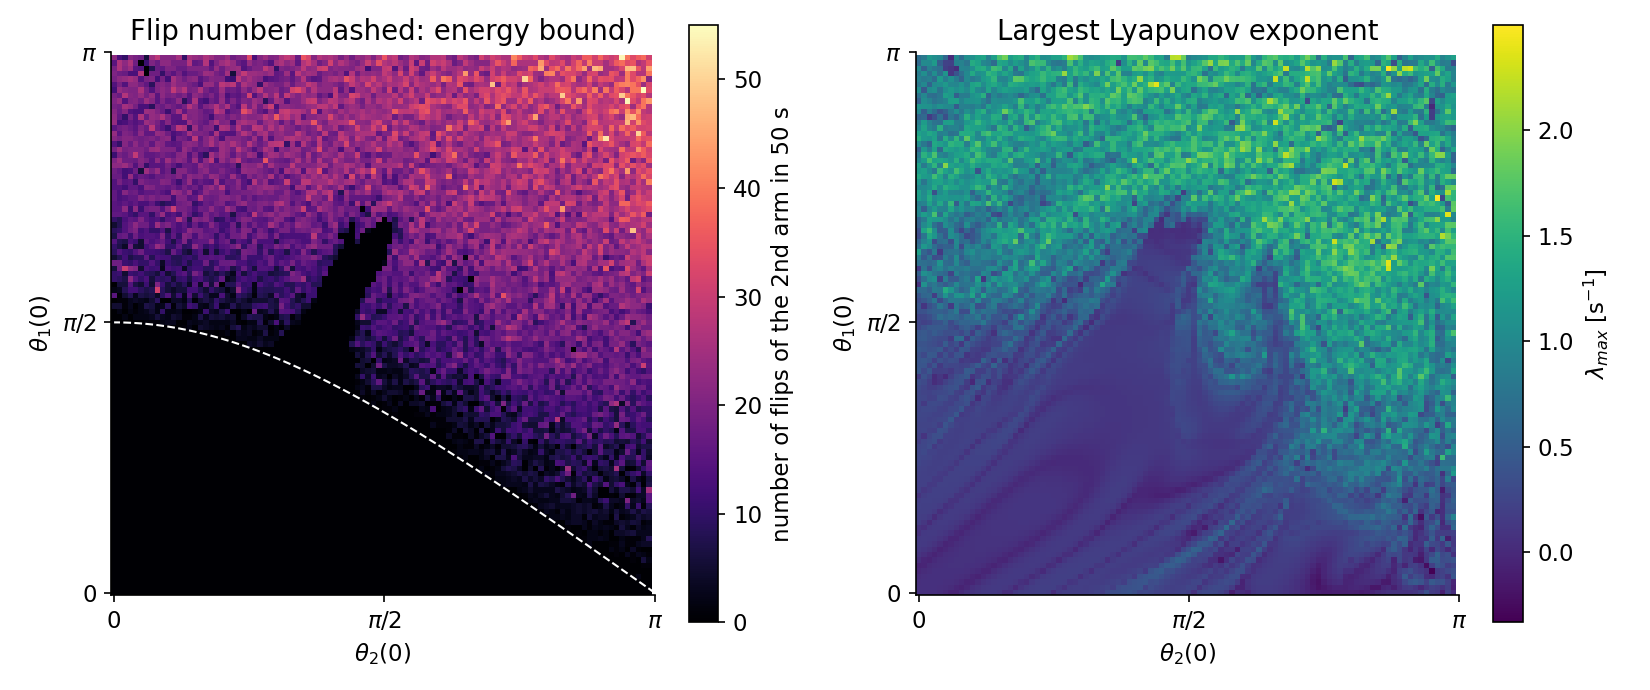
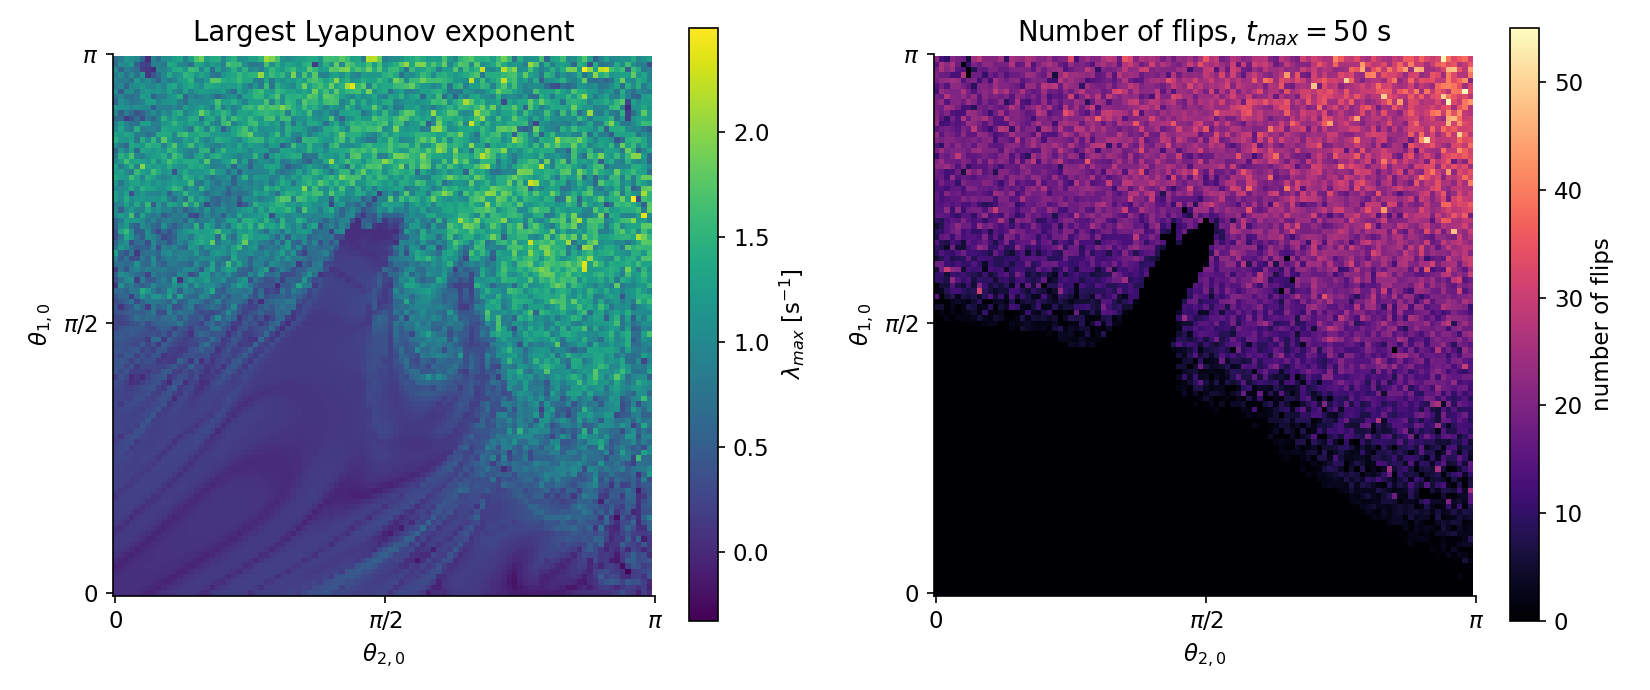
README: corrections after review

diff --git a/scripts/plot_results.py b/scripts/plot_results.py
@@ -14,6 +14,7 @@ FIG.mkdir(exist_ok=True)
 
 METHODS = ["Euler", "RK2", "RK4", "Verlet"]
 COLORS = {"Euler": "#d62728", "RK2": "#ff7f0e", "RK4": "#1f77b4", "Verlet": "#2ca02c"}
+H_COLORS = {2: "#d62728", 3: "#ff7f0e", 4: "#e6b800", 5: "#2ca02c", 6: "#1f77b4"}  # h = 10^-i
 
 plt.rcParams.update({"font.size": 11, "axes.spines.top": False, "axes.spines.right": False})
 
@@ -27,23 +28,18 @@ def load_grid(path):
 
 
 def energy():
-    fig, (ax1, ax2) = plt.subplots(1, 2, figsize=(11, 4))
-
-    for m in METHODS:
-        t, _, _, _, dE, _ = np.loadtxt(DATA / "energy" / f"{m}_dt_1e-3.txt", unpack=True)
-        ax1.semilogy(t[1:], dE[1:], color=COLORS[m], label=m)
-    ax1.set(xlabel="t [s]", ylabel=r"$|E(t)-E_0|/E_0$",
-            title=r"Energy error, $\Delta t=10^{-3}$, $\theta_1=\theta_2=\pi/2$")
-    ax1.legend(frameon=False, ncol=4, loc="upper center", bbox_to_anchor=(0.5, -0.18))
-
-    dts = [10.0**-i for i in range(2, 7)]
-    for m in METHODS:
-        max_err = [np.loadtxt(DATA / "energy" / f"{m}_dt_1e-{i}.txt")[:, 4].max() for i in range(2, 7)]
-        ax2.loglog(dts, max_err, "o-", color=COLORS[m], label=m)
-    ax2.set(xlabel=r"$\Delta t$", ylabel=r"max relative energy error over $t\in[0,10]$",
-            title="Energy error vs time step")
-    ax2.legend(frameon=False)
-
+    """Cumulative relative energy error xi_cum(t) for each method and time step h."""
+    fig, axes = plt.subplots(2, 2, figsize=(11, 8), sharex=True)
+    for ax, m in zip(axes.flat, METHODS):
+        for i, c in H_COLORS.items():
+            t, *_, err_cum = np.loadtxt(DATA / "energy" / f"{m}_dt_1e-{i}.txt", unpack=True)
+            ax.semilogy(t[1:], err_cum[1:], ".", ms=3, color=c, label=rf"$h=10^{{-{i}}}$")
+        ax.set_title(m if m != "Verlet" else "Position Verlet")
+        ax.set_ylabel(r"$\xi_{cum}(t)$")
+    for ax in axes[1]:
+        ax.set_xlabel("t [s]")
+    axes[0, 0].legend(frameon=False, fontsize=9, markerscale=3)
+    fig.suptitle(r"Cumulative energy error, $\theta_1=\theta_2=\pi/2$ at rest")
     fig.tight_layout()
     fig.savefig(FIG / "energy_error.png", dpi=150)
     plt.close(fig)
@@ -74,41 +70,41 @@ def convergence():
 
 
 def lyapunov():
-    theta, ftle, lam, tflip = np.loadtxt(DATA / "lyapunov" / "lyapunov_vs_theta.txt", unpack=True)
-    fig, ax = plt.subplots(figsize=(7, 4.2))
-    ax.plot(theta, lam, "o-", ms=3, color="#1f77b4", label=r"$\lambda_{max}$ (Benettin)")
-    ax.plot(theta, ftle, "s", ms=3, color="#7f7f7f", alpha=0.7, label="FTLE (single run, T=10)")
-    ax.set(xlabel=r"initial angle $\theta_1=\theta_2=\theta$ [rad]", ylabel=r"Lyapunov exponent [s$^{-1}$]",
-           title="Onset of chaos along the diagonal of initial conditions")
-    ax.set_xticks([0, np.pi / 4, np.pi / 2, 3 * np.pi / 4, np.pi],
-                  ["0", r"$\pi/4$", r"$\pi/2$", r"$3\pi/4$", r"$\pi$"])
-    ax.axhline(0, color="k", lw=0.5)
-    ax.legend(frameon=False, loc="upper left")
+    """Largest Lyapunov exponent and first flip time along the symmetric initial condition."""
+    theta, _, lam, tflip = np.loadtxt(DATA / "lyapunov" / "lyapunov_vs_theta.txt", unpack=True)
+    fig, (ax1, ax2) = plt.subplots(1, 2, figsize=(11, 4))
+    ax1.plot(theta, lam, "o-", ms=3, lw=1, color="#1f77b4")
+    ax1.axhline(0, color="k", lw=0.5)
+    ax1.set(ylabel=r"$\lambda_{max}$ [s$^{-1}$]", title="Largest Lyapunov exponent")
+    flipped = tflip > 0  # -1 = no flip within 10 s
+    ax2.plot(theta[flipped], tflip[flipped], "o", ms=3.5, color="#d62728")
+    ax2.set(ylabel="time of first flip [s]", title="Flip time", ylim=(0, 10))
+    for ax in (ax1, ax2):
+        ax.set_xlabel(r"$\theta_0$  (initial condition $\theta_1=\theta_2=\theta_0$, at rest)")
+        ax.set_xlim(0, np.pi * 1.02)
     fig.tight_layout()
     fig.savefig(FIG / "lyapunov_vs_theta.png", dpi=150)
     plt.close(fig)
 
 
 def maps():
+    """Largest Lyapunov exponent and number of flips on a grid of initial conditions."""
     fig, axes = plt.subplots(1, 2, figsize=(11, 4.6))
     ticks = [0, np.pi / 2, np.pi]
     labels = ["0", r"$\pi/2$", r"$\pi$"]
 
-    th1, th2, flips = load_grid(DATA / "grids" / "flip_number.txt")
-    im = axes[0].pcolormesh(th2, th1, flips, cmap="magma", shading="auto")
-    fig.colorbar(im, ax=axes[0], label="number of flips of the 2nd arm in 50 s")
-    # energy bound: starting at rest, the 2nd arm can reach theta2 = pi only if 2cos(th1) + cos(th2) <= 1
-    T2, T1 = np.meshgrid(np.linspace(0, np.pi, 400), np.linspace(0, np.pi, 400))
-    axes[0].contour(T2, T1, 2 * np.cos(T1) + np.cos(T2), levels=[1], colors="w", linestyles="--", linewidths=1)
-    axes[0].set_title("Flip number (dashed: energy bound)")
-
     th1, th2, lam = load_grid(DATA / "grids" / "lyapunov.txt")
-    im = axes[1].pcolormesh(th2, th1, lam, cmap="viridis", shading="auto")
-    fig.colorbar(im, ax=axes[1], label=r"$\lambda_{max}$ [s$^{-1}$]")
-    axes[1].set_title("Largest Lyapunov exponent")
+    im = axes[0].pcolormesh(th2, th1, lam, cmap="viridis", shading="auto")
+    fig.colorbar(im, ax=axes[0], label=r"$\lambda_{max}$ [s$^{-1}$]")
+    axes[0].set_title("Largest Lyapunov exponent")
+
+    th1, th2, flips = load_grid(DATA / "grids" / "flip_number.txt")
+    im = axes[1].pcolormesh(th2, th1, flips, cmap="magma", shading="auto")
+    fig.colorbar(im, ax=axes[1], label="number of flips")
+    axes[1].set_title(r"Number of flips, $t_{max}=50$ s")
 
     for ax in axes:
-        ax.set(xlabel=r"$\theta_2(0)$", ylabel=r"$\theta_1(0)$", aspect="equal")
+        ax.set(xlabel=r"$\theta_{2,0}$", ylabel=r"$\theta_{1,0}$", aspect="equal")
         ax.set_xticks(ticks, labels)
         ax.set_yticks(ticks, labels)
     fig.tight_layout()

diff --git a/README.md b/README.md
@@ -6,46 +6,50 @@ conditions the motion becomes chaotic.
 
 *Course project for Numerical Algorithms, MSc in Physics of Complex Systems, University of Turin.*
 
-![Flip number and largest Lyapunov exponent over the plane of initial angles](figures/maps.png)
+![Largest Lyapunov exponent and number of flips over the plane of initial angles](figures/maps.png)
 
-*Both arms start at rest from angles (θ₁, θ₂). **Left:** how many times the second arm flips over
-in 50 s. The dashed line is the energy bound 2 cos θ₁ + cos θ₂ = 1: below it the pendulum does not
-have enough energy to flip, and the simulation correctly never does. **Right:** largest Lyapunov
-exponent. The regular region at low energy (λ ≈ 0) gives way to chaos as the initial angles grow,
-with filaments of regular motion inside the chaotic sea.*
+*Both arms start at rest from angles (θ₁,₀, θ₂,₀). **Left:** largest Lyapunov exponent. **Right:**
+number of flips of the second arm in 50 s. Chaos does not depend only on the total energy but on
+the specific combination of initial angles: an extended region of regular motion reaches deep into
+the chaotic zone for θ₁,₀, θ₂,₀ ≳ π/2.*
 
 ## What is in the project
 
 | | |
 |---|---|
-| **Model** | Point masses m₁ = m₂ = 1, rods L₁ = L₂ = 1, g = 9.81; full nonlinear equations of motion and the small-angle linearization ([`src/system.cpp`](src/system.cpp)) |
+| **Model** | Point masses m₁ = m₂ = 1, rods L₁ = L₂ = 1, g = 9.81; equations of motion from the Lagrangian and their small-angle linearization ([`src/system.cpp`](src/system.cpp)) |
 | **Integrators** | Euler, RK2 (midpoint), RK4, position Verlet ([`src/integrators.cpp`](src/integrators.cpp)) |
-| **Validation** | energy conservation vs time step; global error against the exact normal-mode solution of the linearized system |
-| **Chaos** | largest Lyapunov exponent with Benettin's renormalisation algorithm, finite-time Lyapunov exponent, flip time and number of flips ([`src/lyapunov.cpp`](src/lyapunov.cpp), [`src/flip_time.cpp`](src/flip_time.cpp)) |
+| **Validation** | cumulative energy error vs time step; global error against the exact normal-mode solution of the linearized system |
+| **Chaos** | largest Lyapunov exponent with Benettin's algorithm, time of the first flip and number of flips ([`src/lyapunov.cpp`](src/lyapunov.cpp), [`src/flip_time.cpp`](src/flip_time.cpp)) |
 
 ## Results
 
-**1. The integrators converge with their theoretical order.** On the linearized system θ₁(t) is known
-exactly, so the global error at t = 10 s can be measured directly: Euler is first order, RK2 and
-Verlet second order, RK4 fourth order down to machine precision.
+**1. Energy conservation.** For an isolated pendulum the energy must stay constant, so its drift
+measures the accuracy of each scheme. Euler and RK2 behave as expected for first- and second-order
+methods. Position Verlet scales even more slowly than Euler: its good properties hold only when
+the accelerations depend on positions alone, while here they also depend on the velocities.
+RK4 is the most accurate, but its error is not monotonic in h: below h = 10⁻⁴ round-off errors
+accumulate faster than truncation errors decrease, so h = 10⁻⁴ is the optimal step.
+
+![Cumulative energy error](figures/energy_error.png)
+
+**2. Convergence.** In the small-oscillation regime θ₁(t) is known exactly, and the error at
+t = 10 s confirms the theoretical orders: 1 for Euler, 2 for RK2 and Verlet (which recovers its
+order once the velocity-dependent terms become negligible), 4 for RK4, down to a floor of about
+10⁻¹⁶ set by double precision.
 
 ![Convergence of the four integrators](figures/convergence.png)
 
-**2. Energy conservation tells a different story on the nonlinear system.** RK4 keeps the relative
-energy error below 10⁻¹¹ at Δt = 10⁻³. Position Verlet, which is second order on the linear problem,
-shows an energy error that scales only as Δt: for the double pendulum the accelerations depend
-on the velocities, so the scheme loses the symplectic structure that usually makes Verlet good at
-conserving energy. RK4 with Δt = 10⁻⁴ was therefore used for all the chaos indicators.
+**3. Transition to chaos.** With RK4 and h = 10⁻⁴, along the symmetric initial condition
+θ₁ = θ₂ = θ₀ two indicators built on different principles, the divergence of nearby trajectories
+(λ_max) and a macroscopic event (the first flip), identify the same threshold θ₀ ≈ 1.6, just above
+π/2: below it the motion is regular and the pendulum never flips, above it λ_max becomes positive
+and the flip time becomes finite but highly irregular.
 
-![Energy error](figures/energy_error.png)
+![Lyapunov exponent and flip time along the symmetric initial condition](figures/lyapunov_vs_theta.png)
 
-**3. Onset of chaos.** Along the diagonal θ₁ = θ₂ = θ the Lyapunov exponent stays close to zero up to
-θ ≈ π/2 and then becomes clearly positive. The single-run FTLE agrees with Benettin's estimate in
-the chaotic region but overestimates it in the regular one, where the separation has not yet
-settled on its asymptotic growth. The last point (θ = π, both arms upright) is the unstable
-equilibrium.
-
-![Lyapunov exponent along the diagonal](figures/lyapunov_vs_theta.png)
+**4. Beyond the symmetric case.** On the full grid of initial angles (figure at the top) the
+regular and chaotic regions have a non-trivial shape that the one-dimensional scan cannot capture.
 
 ## Repository structure
 
